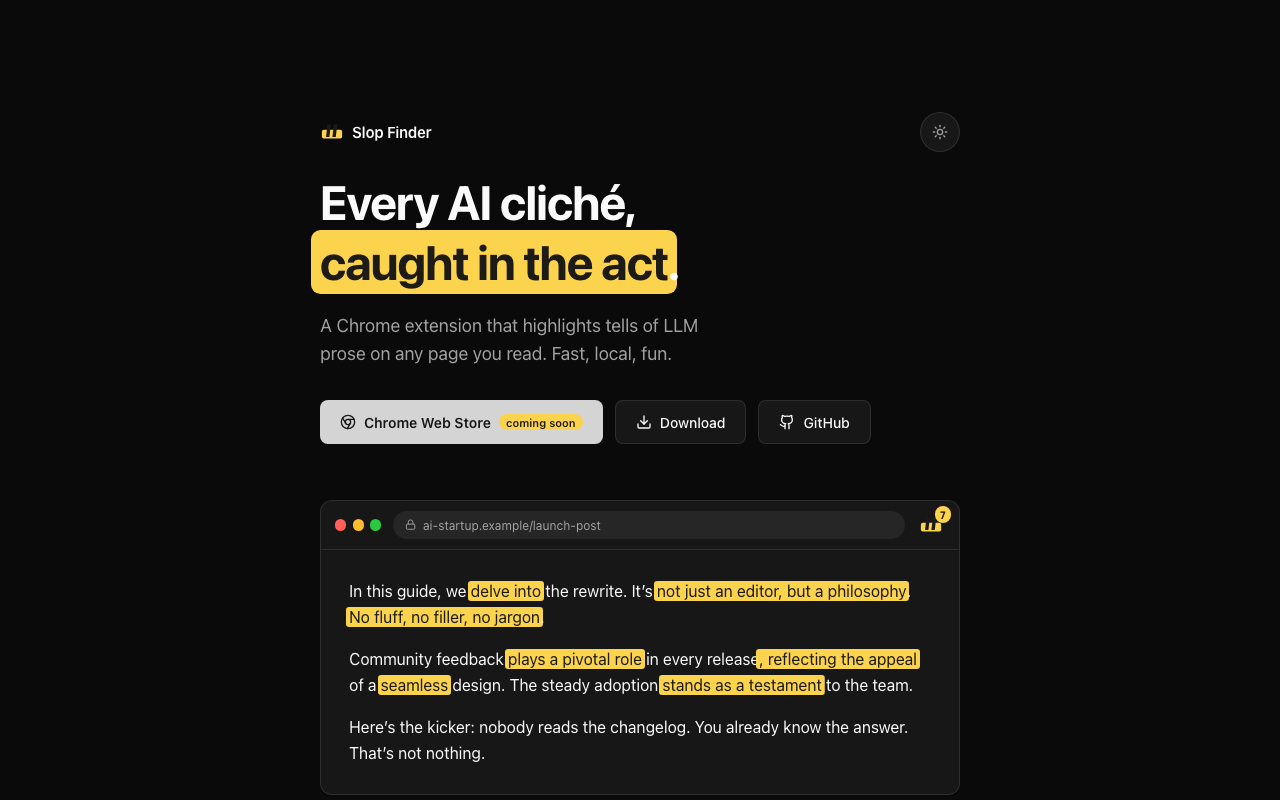
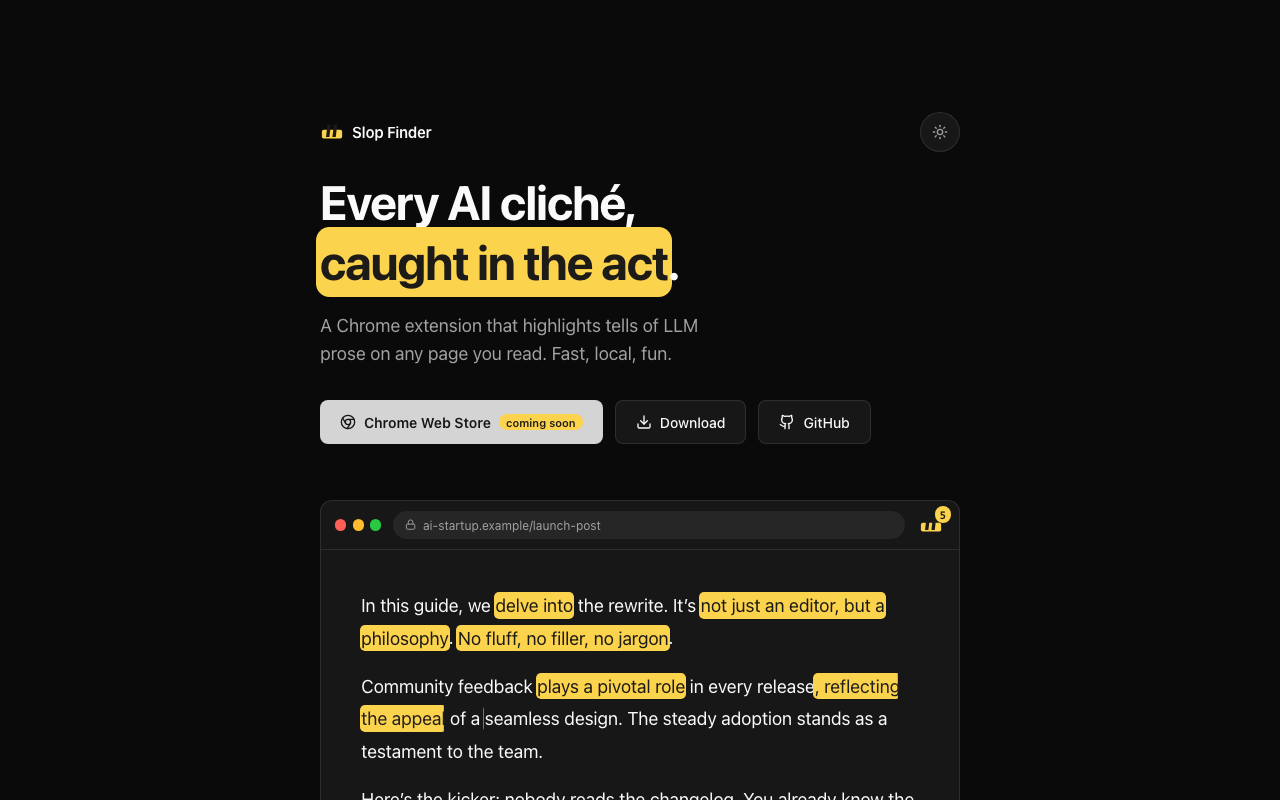
Lock in the jig-dialed sweep composition
Values from the slop-sweep-jig handoff: lead 400ms, stagger 420ms, hold
3000ms, ease-in-out; mark radius 0.28em with taller/narrower padding
(0.15em/0.08em); card at 18px/1.8 with 40px padding (28px on mobile).
Store screenshots regenerated at the new rhythm.

diff --git a/site/index.html b/site/index.html
@@ -73,8 +73,11 @@
      clone gives each line fragment its own sweep). Delays are driven by a
      per-mark --i index. Highlighter yellow is the brand color — identical in
      light and dark mode, with fixed dark ink text. */
+  /* Values dialed with the slop-sweep-jig prototype (nextjs-prototypes):
+     lead 400ms · stagger 420ms · sweep 520ms ease-in-out · hold 3000ms ·
+     mark radius 0.28em · mark pad 0.15em/0.08em · card 18px/1.8/40px. */
   .ch-mark {
-    --ch-delay: calc(600ms + var(--i, 0) * 620ms);
+    --ch-delay: calc(400ms + var(--i, 0) * 420ms);
     --ch-yellow: #fcd34d;
     --ch-ink: #1d1b17;
     background-color: transparent;
@@ -83,14 +86,14 @@
     background-repeat: no-repeat;
     background-size: 0% 100%;
     background-position: 0 0;
-    border-radius: 0.2em;
-    padding: 0.08em 0.18em;
-    margin: -0.08em -0.18em;
+    border-radius: 0.28em;
+    padding: 0.15em 0.08em;
+    margin: -0.15em -0.08em;
     -webkit-box-decoration-break: clone;
     box-decoration-break: clone;
     animation:
-      ch-sweep 520ms cubic-bezier(0.16, 1, 0.3, 1) both,
-      ch-ink 520ms cubic-bezier(0.16, 1, 0.3, 1) both;
+      ch-sweep 520ms ease-in-out both,
+      ch-ink 520ms ease-in-out both;
     animation-delay: var(--ch-delay);
   }
   @keyframes ch-sweep {
@@ -275,10 +278,11 @@
     display: block;
   }
   .demo-card {
-    padding: 1.25rem;
-    line-height: 1.625;
+    padding: 1.75rem;
+    font-size: 1.125rem;
+    line-height: 1.8;
   }
-  @media (min-width: 640px) { .demo-card { padding: 1.75rem; } }
+  @media (min-width: 640px) { .demo-card { padding: 40px; } }
   .demo-card p { margin: 0; }
   .demo-card p + p { margin-top: 1rem; }
   /* Found-count badge: upticks as the sweep lands on each cliché — same
@@ -396,9 +400,9 @@
 
   // ---- Looping demo (ported from demo.tsx / data.ts) ----
   // Animation timing shared by the CSS keyframe delays and the JS counter.
-  const LEAD_MS = 600;    // pause before the first sweep
-  const STAGGER_MS = 620; // gap between consecutive sweeps
-  const HOLD_MS = 3400;   // dwell on the fully-marked text before looping
+  const LEAD_MS = 400;    // pause before the first sweep
+  const STAGGER_MS = 420; // gap between consecutive sweeps
+  const HOLD_MS = 3000;   // dwell on the fully-marked text before looping
 
   // The sample "AI-generated launch post" the demo sweeps through. Every
   // `hit` label names a real pattern the bundled extension detects.
